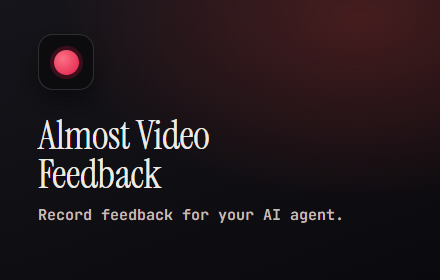
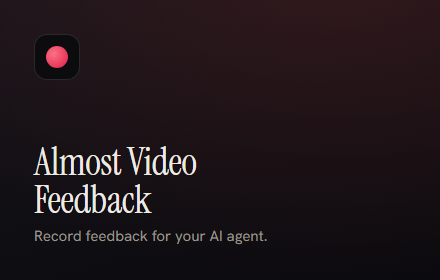
Refresh Chrome Web Store submission materials for 0.6.0
- CHROME-WEB-STORE.md: detailed description now covers drawing, pause, delete, and
  Loom import; single-purpose + permission justifications + data disclosures
  updated (all-frames drawing layer, Loom capture); images section refreshed.
- privacy.html: add on-page drawing + a Loom-import section (on-device, no mic,
  no video download); bump date to 27 Jun 2026.
- store-assets.html: current overlay (pause, no timer), new "Feedback your AI can
  see" marquee, a draw+Loom screenshot, and a ?shot=<id> isolation mode.
- scripts/gen-store-images.cjs: regenerate promo images via headless Chrome.
- docs/store: regenerated marquee + promo tile + new 04-draw-and-loom.png.

diff --git a/docs/store-assets.html b/docs/store-assets.html
@@ -8,30 +8,37 @@
 <link rel="preconnect" href="https://fonts.gstatic.com" crossorigin />
 <link href="https://fonts.googleapis.com/css2?family=Instrument+Serif:ital@0;1&family=Hanken+Grotesk:wght@400;500;600;700;800&family=JetBrains+Mono:wght@400;600;700&display=swap" rel="stylesheet" />
 <style>
-  :root{--bg:#0c0b0e;--bg-2:#141318;--ink:#edeae3;--muted:#9b968c;--rec:#ff453a;--mint:#7cf5b0;--line:rgba(255,255,255,.12)}
+  :root{--bg:#0c0b0e;--bg-2:#141318;--ink:#edeae3;--muted:#9b968c;--rec:#ff453a;--mint:#7cf5b0;--ink-pink:#ff2d95;--line:rgba(255,255,255,.12)}
   *{box-sizing:border-box;margin:0;padding:0}
   body{background:#050507;color:var(--ink);font-family:'Hanken Grotesk',system-ui,sans-serif;padding:30px}
-  .note{max-width:820px;margin:0 auto 26px;font-size:14.5px;color:#cbd5e1;line-height:1.6;font-family:'JetBrains Mono',monospace}
+  .note{max-width:880px;margin:0 auto 26px;font-size:14.5px;color:#cbd5e1;line-height:1.6;font-family:'JetBrains Mono',monospace}
   .note b{color:var(--mint)}
   .label{font-family:'JetBrains Mono',monospace;font-size:12px;color:var(--rec);margin:34px 0 8px;font-weight:700;letter-spacing:.05em}
   .frame{outline:1px dashed rgba(255,255,255,.18);outline-offset:6px;overflow:hidden;position:relative;
     background:radial-gradient(900px 500px at 78% -8%,rgba(255,69,58,.13),transparent 60%),linear-gradient(165deg,#15141a,#0b0a0e)}
+
+  /* Isolation mode: open ?shot=ID to render ONLY that box at (0,0) for a pixel-exact headless capture. */
+  body.shot{padding:0;background:#050507}
+  body.shot .note,body.shot .label,body.shot .frame{display:none}
+  body.shot .frame.on{display:flex;outline:none;outline-offset:0;margin:0}
+
   .rec-dot{display:inline-block;width:.62em;height:.62em;border-radius:50%;background:var(--rec);box-shadow:0 0 0 0 rgba(255,69,58,.6);animation:pulse 1.6s infinite}
   @keyframes pulse{70%{box-shadow:0 0 0 .7em rgba(255,69,58,0)}100%{box-shadow:0 0 0 0 rgba(255,69,58,0)}}
-  .eyebrow{display:inline-flex;align-items:center;gap:9px;font-family:'JetBrains Mono',monospace;font-size:14px;letter-spacing:.05em;text-transform:uppercase;color:var(--muted);border:1px solid var(--line);padding:7px 15px;border-radius:99px}
+  .eyebrow{display:inline-flex;align-self:flex-start;align-items:center;gap:9px;font-family:'JetBrains Mono',monospace;font-size:14px;letter-spacing:.05em;text-transform:uppercase;color:var(--muted);border:1px solid var(--line);padding:7px 15px;border-radius:99px}
   .serif{font-family:'Instrument Serif',serif;font-weight:400;letter-spacing:-.01em}
   em{font-style:italic;color:var(--rec)}
   .mono{font-family:'JetBrains Mono',monospace}
 
-  /* recording overlay mock */
+  /* recording overlay mock (current: REC + shot count + transcript + pause/shot/min/stop — no timer) */
   .overlay{display:inline-flex;align-items:center;gap:14px;padding:14px 18px;border-radius:16px;
     background:rgba(17,24,39,.92);border:1px solid rgba(255,255,255,.14);box-shadow:0 22px 60px -16px rgba(0,0,0,.8)}
   .ov-rec{display:flex;align-items:center;gap:8px;font-family:'JetBrains Mono',monospace;font-size:13px;font-weight:700;color:#fecdd3}
+  .ov-rec .sh{color:#9aa0ab}
   .ov-sep{width:1px;height:24px;background:rgba(255,255,255,.16)}
   .ov-text{font-size:15px;color:#eef0f3}
   .ov-text i{color:var(--rec);font-style:normal}
   .ov-btns{display:flex;gap:7px}
-  .ov-btns b{width:30px;height:30px;border-radius:8px;display:grid;place-items:center;font-size:14px;background:rgba(255,255,255,.09);border:1px solid rgba(255,255,255,.16);font-weight:400}
+  .ov-btns b{width:30px;height:30px;border-radius:8px;display:grid;place-items:center;font-size:13px;background:rgba(255,255,255,.09);border:1px solid rgba(255,255,255,.16);font-weight:400}
 
   /* SCREENSHOT 1 — 1280x800 hero */
   .s1{width:1280px;height:800px;padding:96px 90px;display:flex;flex-direction:column;justify-content:center}
@@ -49,6 +56,21 @@
   .s2 .step h3{font-size:24px;margin-top:8px}
   .s2 .step p{color:var(--muted);font-size:16px;margin-top:8px;line-height:1.4}
 
+  /* SCREENSHOT 3 — 1280x800 "two ways in" (draw + Loom import) */
+  .s3{width:1280px;height:800px;padding:88px 90px;display:flex;flex-direction:column;justify-content:center}
+  .s3 h2{font-size:60px;line-height:1.03;max-width:20ch}
+  .s3 .cols{display:grid;grid-template-columns:1fr 1fr;gap:24px;margin-top:50px}
+  .s3 .col{border:1px solid var(--line);border-radius:18px;padding:34px 32px;background:rgba(255,255,255,.025)}
+  .s3 .col .ic{font-size:30px}
+  .s3 .col h3{font-size:27px;margin-top:14px}
+  .s3 .col p{color:var(--muted);font-size:17px;margin-top:10px;line-height:1.45}
+  .s3 .draw{margin-top:22px;height:64px;border-radius:12px;border:1px dashed rgba(255,255,255,.14);position:relative;background:rgba(255,255,255,.015)}
+  .s3 .draw::after{content:"";position:absolute;left:48px;top:14px;width:120px;height:36px;border:3px solid var(--ink-pink);border-radius:48% 52% 51% 49%/52% 49% 51% 48%;box-shadow:0 0 12px rgba(255,45,149,.55);transform:rotate(-3deg)}
+  .s3 .loomcard{margin-top:22px;border-radius:12px;border:1px solid var(--line);background:#0e0d12;overflow:hidden}
+  .s3 .loomcard .bar{height:34px;background:rgba(255,255,255,.04);display:flex;align-items:center;gap:7px;padding:0 12px}
+  .s3 .loomcard .bar i{width:9px;height:9px;border-radius:50%;background:rgba(255,255,255,.18)}
+  .s3 .loombtn{margin:14px;padding:11px;border-radius:10px;background:linear-gradient(180deg,#6366f1,#4f46e5);color:#fff;font-weight:700;text-align:center;font-size:15px}
+
   /* SMALL PROMO TILE — 440x280 */
   .tile{width:440px;height:280px;padding:34px;display:flex;flex-direction:column;justify-content:space-between}
   .tile .logo{width:46px;height:46px;border-radius:13px;background:#0c0b0e;border:1px solid var(--line);display:grid;place-items:center}
@@ -59,49 +81,72 @@
   /* MARQUEE — 1400x560 */
   .mq{width:1400px;height:560px;padding:0 100px;display:flex;align-items:center;gap:60px}
   .mq-l{flex:1}
-  .mq h1{font-size:88px;line-height:.98;margin-top:18px}
-  .mq p{color:var(--muted);font-size:22px;margin-top:24px;max-width:24ch}
+  .mq h1{font-size:84px;line-height:.98;margin-top:18px}
+  .mq p{color:var(--muted);font-size:22px;margin-top:24px;max-width:26ch}
   .mq-r{flex:0 0 auto}
 </style>
 </head>
 <body>
   <div class="note">
-    <b>How to use:</b> set your browser zoom to <b>100%</b>, then screenshot each dashed box (the box itself is the exact pixel size — the label above it is not part of the image). Save as PNG and upload to the Chrome Web Store listing. On a HiDPI/Retina display your capture may be 2× — that's fine, the store accepts larger and downscales.
+    <b>How to use:</b> these boxes are the exact pixel sizes the Chrome Web Store wants. To capture one cleanly, open this file with <b>?shot=&lt;id&gt;</b> (ids: <b>s1, s2, s3, tile, marquee</b>) and screenshot — or just run <b>scripts/gen-store-images</b> (headless Chrome). Otherwise set zoom to 100% and screenshot each dashed box.
   </div>
 
-  <div class="label">▸ SCREENSHOT 1 — 1280 × 800 (required)</div>
-  <div class="frame s1">
+  <div class="label">▸ SCREENSHOT 1 — 1280 × 800 (required) — id: s1</div>
+  <div class="frame s1" data-shot="s1">
     <span class="eyebrow"><span class="rec-dot"></span> Chrome extension · Free · Open source</span>
     <h1 class="serif">Record video feedback for your <span style="white-space:nowrap">AI…<em>almost</em>.</span></h1>
     <div class="ov-wrap">
       <div class="overlay">
-        <div class="ov-rec"><span class="rec-dot"></span> REC <span style="color:#cdd0d6">0:14</span> <span style="color:#9aa0ab">📸 5</span></div>
+        <div class="ov-rec"><span class="rec-dot"></span> REC <span class="sh">📸 5</span></div>
         <div class="ov-sep"></div>
         <div class="ov-text">this save button is misaligned… and the total shows zero<i>|</i></div>
-        <div class="ov-btns"><b>📸</b><b>–</b><b>⏹</b></div>
+        <div class="ov-btns"><b>⏸</b><b>📸</b><b>–</b><b>⏹</b></div>
       </div>
     </div>
     <div class="bullets">
       <span>🎙️ <b>Talk</b> through bugs</span>
-      <span>📸 <b>Auto-screenshots</b> the page</span>
+      <span>✍️ <b>Draw</b> on the page</span>
       <span>📋 <b>One paste</b> into your AI</span>
     </div>
   </div>
 
-  <div class="label">▸ SCREENSHOT 2 — 1280 × 800</div>
-  <div class="frame s2">
+  <div class="label">▸ SCREENSHOT 2 — 1280 × 800 — id: s2</div>
+  <div class="frame s2" data-shot="s2">
     <span class="eyebrow"><span class="rec-dot"></span> How it works</span>
     <h2 class="serif">Install once, then mostly just talk.</h2>
     <div class="steps">
       <div class="step"><div class="n">01</div><h3>Record</h3><p>Click the icon or hit a hotkey.</p></div>
-      <div class="step"><div class="n">02</div><h3>Talk &amp; point</h3><p>Describe bugs as you click and scroll.</p></div>
+      <div class="step"><div class="n">02</div><h3>Talk &amp; point</h3><p>Describe bugs as you click, scroll, and draw.</p></div>
       <div class="step"><div class="n">03</div><h3>Stop</h3><p>The bundle copies to your clipboard.</p></div>
       <div class="step"><div class="n">04</div><h3>Paste</h3><p>Drop it into your AI agent. Done.</p></div>
     </div>
   </div>
 
-  <div class="label">▸ SMALL PROMO TILE — 440 × 280</div>
-  <div class="frame tile">
+  <div class="label">▸ SCREENSHOT 3 — 1280 × 800 — id: s3</div>
+  <div class="frame s3" data-shot="s3">
+    <span class="eyebrow"><span class="rec-dot"></span> Two ways in</span>
+    <h2 class="serif">Point at it. Or import a <em>Loom</em>.</h2>
+    <div class="cols">
+      <div class="col">
+        <div class="ic">✍️</div>
+        <h3>Draw on the page</h3>
+        <p>Right-drag to circle what's wrong — your marks land in the screenshots.</p>
+        <div class="draw"></div>
+      </div>
+      <div class="col">
+        <div class="ic">🎞️</div>
+        <h3>Import a Loom</h3>
+        <p>Turn an existing Loom — transcript and frames — into the same bundle.</p>
+        <div class="loomcard">
+          <div class="bar"><i></i><i></i><i></i></div>
+          <div class="loombtn">Import this Loom video</div>
+        </div>
+      </div>
+    </div>
+  </div>
+
+  <div class="label">▸ SMALL PROMO TILE — 440 × 280 — id: tile</div>
+  <div class="frame tile" data-shot="tile">
     <div class="logo"><span></span></div>
     <div>
       <h3 class="serif">Almost Video<br/>Feedback</h3>
@@ -109,21 +154,32 @@
     </div>
   </div>
 
-  <div class="label">▸ MARQUEE PROMO — 1400 × 560 (optional)</div>
-  <div class="frame mq">
+  <div class="label">▸ MARQUEE PROMO — 1400 × 560 (optional) — id: marquee</div>
+  <div class="frame mq" data-shot="marquee">
     <div class="mq-l">
       <span class="eyebrow"><span class="rec-dot"></span> Chrome extension</span>
-      <h1 class="serif">Talk to your AI like it's <em>watching</em>.</h1>
-      <p>Record spoken + visual feedback. Paste one file into your agent.</p>
+      <h1 class="serif">Feedback your AI can <em>see</em>.</h1>
+      <p>Talk, point, and draw on the page — paste one file into your agent.</p>
     </div>
     <div class="mq-r">
       <div class="overlay">
-        <div class="ov-rec"><span class="rec-dot"></span> REC <span style="color:#cdd0d6">0:21</span></div>
+        <div class="ov-rec"><span class="rec-dot"></span> REC <span class="sh">📸 5</span></div>
         <div class="ov-sep"></div>
         <div class="ov-text">fix the alignment here<i>|</i></div>
-        <div class="ov-btns"><b>⏹</b></div>
+        <div class="ov-btns"><b>⏸</b><b>⏹</b></div>
       </div>
     </div>
   </div>
+
+  <script>
+    // ?shot=ID -> isolate one box at (0,0) for a pixel-exact headless screenshot.
+    (function () {
+      var id = new URLSearchParams(location.search).get('shot');
+      if (!id) return;
+      document.body.classList.add('shot');
+      var el = document.querySelector('.frame[data-shot="' + id + '"]');
+      if (el) el.classList.add('on');
+    })();
+  </script>
 </body>
 </html>

diff --git a/docs/privacy.html b/docs/privacy.html
@@ -35,7 +35,7 @@
 <div class="wrap">
   <a class="brand" href="./index.html"><span class="dot"></span> Almost Video Feedback</a>
   <h1>Privacy Policy</h1>
-  <div class="sub">Last updated: 23 June 2026</div>
+  <div class="sub">Last updated: 27 June 2026</div>
 
   <div class="tl">
     <b>In one line:</b> your recordings stay on your computer. Almost Video Feedback has no servers, no accounts, and no analytics — it never sends your data to us, because there is nowhere for it to go.
@@ -46,9 +46,13 @@
   <ul>
     <li><strong>Your microphone audio</strong> — to transcribe what you say into text.</li>
     <li><strong>Screenshots of the tab you are recording</strong> — captured at the moments you click, select, scroll, or trigger them.</li>
+    <li><strong>Anything you draw on the page</strong> — optional on-page marks (drawn with a right-drag) are painted into those screenshots so you can point at things. They are part of the screenshot, never sent anywhere.</li>
     <li><strong>Page context</strong> — the page URL/title and a short description of the element you clicked or selected (tag, nearby text), so each screenshot is labeled.</li>
   </ul>
   <p>It only does this while a recording is active, and only for the tab you chose to record.</p>
+
+  <h2>Importing a Loom video</h2>
+  <p>If you choose <strong>Import this Loom video</strong> while you are on a <code>loom.com/share/…</code> page, the extension reads that page's existing <strong>transcript</strong> and captures <strong>frames</strong> of the video (using the same screenshot mechanism as live recording), entirely on your device, to build the same local bundle. It does <strong>not</strong> use your microphone, does not download the underlying video file, and sends nothing to the developer or to Loom beyond your normal use of the Loom page.</p>
 
   <h2>Where your data goes</h2>
   <ul>

diff --git a/docs/CHROME-WEB-STORE.md b/docs/CHROME-WEB-STORE.md
@@ -11,7 +11,7 @@ in the checklist at the end.
 - ✅ **Upload package:** `dist/almost-video-feedback-store.zip` — run `npm run pack:store` to (re)build it. The manifest is at the zip root (the store requires this).
 - ✅ **Privacy policy (hosted, required):** https://justinwi.github.io/almost-video-feedback/privacy.html
 - ✅ **128×128 icon:** included in the package.
-- ✅ **Store images to capture:** open `docs/store-assets.html` in your browser and screenshot the framed boxes (instructions on that page).
+- ✅ **Store images:** four 1280×800 screenshots + the promo tile + marquee are in `docs/store/`. Regenerate the promo images anytime with `node scripts/gen-store-images.cjs` (source: `docs/store-assets.html`).
 - ✅ All listing copy, permission justifications, and the data-disclosure answers — below.
 
 ---
@@ -39,20 +39,29 @@ Describing UI bugs to an AI coding agent is tedious: you type a wall of text, ta
 it out of Downloads, drag it in, and explain which part you mean — for every single issue.
 
 Almost Video Feedback turns that into talking. Hit record, describe what's broken while you click,
-scroll, and select on the page, then stop. The extension transcribes what you said and automatically
-captures the right screenshots, then bundles everything into one file and copies a ready-to-paste
-prompt to your clipboard. Paste it into your AI agent (Claude Code, Cursor, Copilot, or any tool that
-reads files) and it has your words and the screenshots, in order.
+scroll, and select on the page — and circle or draw right on the page to point at what's wrong — then
+stop. The extension transcribes what you said and automatically captures the right screenshots (your
+drawings included), bundles everything into one file, and copies a ready-to-paste prompt to your
+clipboard. Paste it into your AI agent (Claude Code, Cursor, Copilot, or any tool that reads files)
+and it has your words and the screenshots, in order.
+
+Already recorded a Loom? Open the Loom share page and click "Import this Loom video" — it turns the
+Loom's transcript and frames into the exact same bundle, with no re-recording.
 
 WHAT IT DOES
 • Real-time voice transcription while you record (built into your browser — no API key).
 • Smart screenshots on clicks, text selection, scroll-stops, and mouse-circling — deduplicated so
-  your agent isn't flooded with near-identical frames.
+  your agent isn't flooded with near-identical frames (a region-aware check still catches small
+  changes like a toggled control).
+• Draw on the page — right-drag (Control-Option-drag on a Mac) to circle and scribble what's wrong;
+  your marks are painted into the screenshots, even over embedded iframes.
+• Pause and resume anytime — the mic goes quiet and nothing's captured until you're ready.
 • A correlated bundle: each screenshot is tied to what you said at that moment, the page URL, and the
   element you touched.
 • One-paste handoff: on stop, a prompt + the file path are already on your clipboard.
-• A recordings library to review past sessions, fix mis-transcribed words, prune screenshots, and
-  re-share any session as a zip.
+• A recordings library to review past sessions, fix mis-transcribed words, prune screenshots, share a
+  session as a zip, or delete a recording you don't need.
+• Import a Loom: turn an existing Loom review video (its transcript + frames) into the same bundle.
 
 YOUR DATA STAYS ON YOUR MACHINE
 There are no servers, accounts, or analytics. Recordings are saved to your Downloads folder and the
@@ -69,7 +78,8 @@ Made by teachinge.org — https://teachinge.org
 **Single purpose** (the dashboard asks for one)
 
 ```
-Record a user's spoken and visual feedback about a web page and produce a single local file
+Turn a user's feedback about a web page — recorded live (spoken narration + screenshots, with
+optional on-page drawing) or imported from an existing Loom video — into a single local file
 (a transcript plus correlated screenshots) that the user can hand to an AI coding agent.
 ```
 
@@ -99,10 +109,10 @@ Paste these into the "Permission justification" boxes.
 
 | Permission | Justification |
 |---|---|
-| **Host permission `<all_urls>`** | The user can record feedback on any website they're reviewing, so the content script (recording overlay + input tracking) and `captureVisibleTab` must be able to run on any URL. The extension acts only on the single tab the user explicitly starts recording, and only while recording. |
-| `tabs` | To capture the visible area of the tab being recorded (`captureVisibleTab`) and to read that tab's URL and title so each screenshot can be labeled in the feedback file. |
-| `activeTab` | To operate on the user's current tab when they start a recording from the toolbar. |
-| `scripting` | To inject the recording overlay/content script into a tab that was already open before the extension loaded, when the user starts a recording there. Only the extension's own bundled files are injected — no remote or generated code. |
+| **Host permission `<all_urls>`** | The user can record feedback on any website they're reviewing, so the content script (recording overlay, input tracking, and the on-page drawing layer — which also runs in sub-frames so the user can draw over embedded content) and `captureVisibleTab` must be able to run on any URL. It also covers `loom.com` for the Loom-video import (reading the page's transcript and capturing video frames). The extension acts only on the single tab the user explicitly starts recording on or imports from, and only during that action. |
+| `tabs` | To capture the visible area of the tab (`captureVisibleTab`) — both for live-recording screenshots and for grabbing frames from an imported Loom video — and to read that tab's URL and title so each screenshot can be labeled in the feedback file. |
+| `activeTab` | To operate on the user's current tab when they start a recording or a Loom import from the toolbar. |
+| `scripting` | To inject the extension's content scripts (recording overlay, drawing layer, Loom-import bridge) into a tab that was already open before the extension loaded, when the user starts a recording or import there. Only the extension's own bundled files are injected — no remote or generated code. |
 | `downloads` | To save the feedback bundle (`feedback.md`, `session.json`, and the screenshot PNGs) to the user's Downloads folder. |
 | `downloads.ui` | To briefly hide Chrome's download shelf while the bundle is written, so it doesn't pop up over the popup. Restored immediately after. |
 | `storage` | To store the user's settings and the local library of recent recordings. |
@@ -121,8 +131,10 @@ fetched code. All code is in the package; MV3's default CSP is enforced.
 Answer truthfully — these are the expected answers for this extension:
 
 - **What user data do you collect?** The extension *handles* (locally) "Website content" (screenshots
-  and page text of the page being reviewed) and audio/"Personal communications" (the user's spoken
-  feedback, transcribed). It does **not transmit** any of this to the developer.
+  and page text of the page being reviewed — and, for a Loom import, the Loom page's existing
+  transcript and video frames) and audio/"Personal communications" (the user's spoken feedback,
+  transcribed, when recording live; a Loom import uses no microphone). It does **not transmit** any of
+  this to the developer.
 - **Is any of the data sold to third parties?** → **No.**
 - **Is the data used or transferred for purposes unrelated to the item's single purpose?** → **No.**
 - **Is the data used or transferred to determine creditworthiness or for lending?** → **No.**
@@ -141,21 +153,22 @@ Answer truthfully — these are the expected answers for this extension:
 
 ## Images you need (sizes)
 
-**✅ Three ready-to-upload 1280×800 product screenshots are already in [`docs/store/`](store/):**
-1. `01-record-on-your-app.png` — the recording overlay on a real-looking dashboard.
+**✅ Ready-to-upload 1280×800 product screenshots are in [`docs/store/`](store/):**
+1. `01-record-on-your-app.png` — the recording overlay + a drawn circle on a real-looking dashboard.
 2. `02-recordings-library.png` — the recordings library with screenshots + transcript.
 3. `03-control-center.png` — the toolbar popup (recent recordings, saved result).
+4. `04-draw-and-loom.png` — the two new ways in: draw on the page, or import a Loom video.
 
-Just upload those. (They're real renders of the extension's UI.)
+Upload any 1–5 of them (all four recommended).
 
 | Asset | Size | Status |
 |---|---|---|
 | Store icon | 128×128 | ✅ in package |
-| Screenshots (×3) | 1280×800 | ✅ `docs/store/01-…`, `02-…`, `03-…` |
+| Screenshots (×4) | 1280×800 | ✅ `docs/store/01-…` … `04-draw-and-loom.png` |
 | Small promo tile | 440×280 | ✅ `docs/store/promo-tile-440x280.png` |
 | Marquee promo | 1400×560 | ✅ `docs/store/marquee-1400x560.png` |
 
-**Every store image is ready in [`docs/store/`](store/)** — nothing left to capture.
+The promo tile, marquee, and the draw-and-loom screenshot regenerate from `docs/store-assets.html` — run **`node scripts/gen-store-images.cjs`** (headless Chrome) after any copy/feature change. (Screenshots 01–03 are the original in-context renders; recapture them only if you want them to show the pause button and drop the old elapsed-timer.)
 
 ---
 